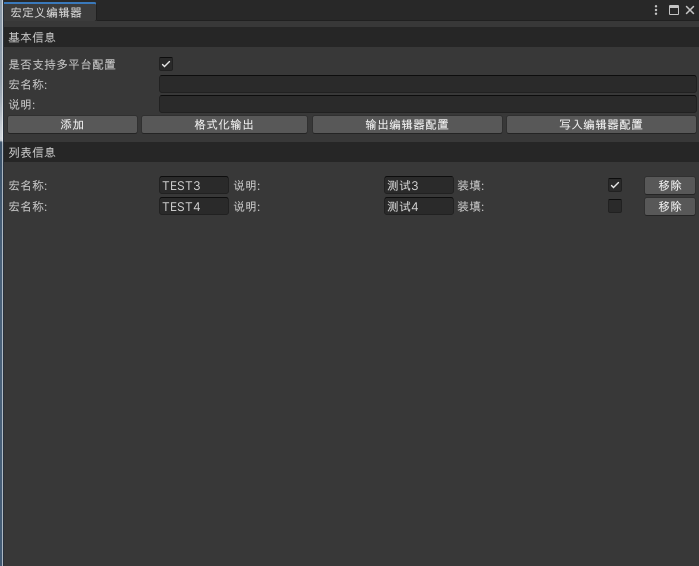
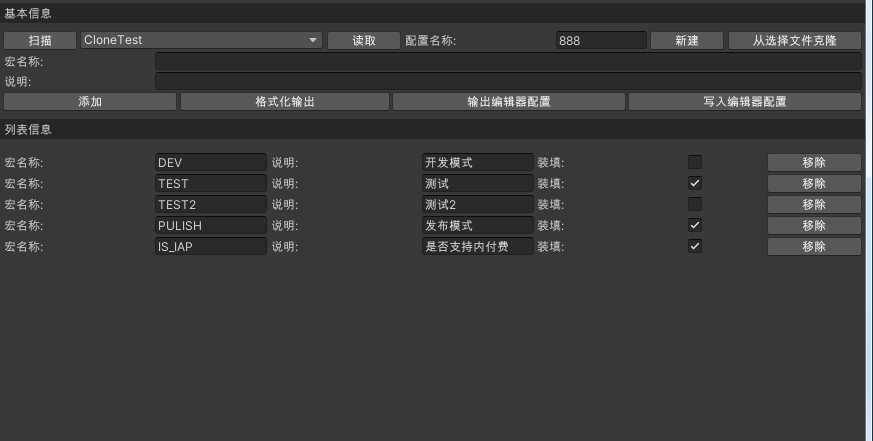
update

diff --git a/README.md b/README.md
@@ -4,11 +4,16 @@
 
 配置可以添加说明方便理解
 
+v1.0
 支持多个平台的配置文件
 
 如果设置为单一配置文件会命名为 DefineSymbolsData_Default
 
 多平台的话会根据平台命名
+
+v2.0
+移除了多平台的模式 改为自定义配置文件可以自己的创建配置。
+可以从已有文件克隆配置到新文件。
 
 # 界面展示
 
@@ -18,6 +23,3 @@
 
 ![Image text](https://github.com/corle-bell/DefineSymbolsEditor/blob/main/ScreenShoot/editor_setting.png)
 
-# 多平台配置文件
-
-![Image text](https://github.com/corle-bell/DefineSymbolsEditor/blob/main/ScreenShoot/platform.png)
